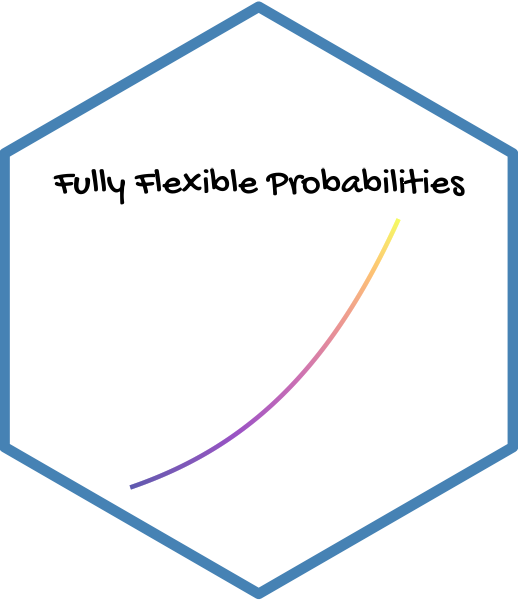
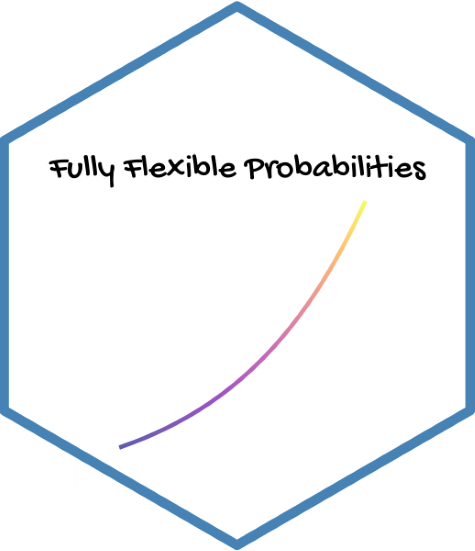
adjusting pkg for cran submission

diff --git a/docs/index.html b/docs/index.html
@@ -70,7 +70,7 @@
       </header><div class="row">
   <div class="contents col-md-9">
 
-<p><a href="https://reckziegel.github.io/FFP/" class="external-link"><img src="reference/figures/ffp_sticker.png" align="right" height="139"></a></p>
+<p><img src="reference/figures/ffp_sticker.png" align="right" width="147" height="170"></p>
 <div class="section level1">
 <div class="page-header"><h1 id="fully-flexible-probabilities">Fully Flexible Probabilities<a class="anchor" aria-label="anchor" href="#fully-flexible-probabilities"></a>
 </h1></div>
@@ -79,7 +79,7 @@
 <blockquote>
 <p>Functions for Scenario Analysis and Risk Management</p>
 </blockquote>
-<p>Oftentimes, the econometrician needs to stress-test the potential outcomes for a given set of risk-drivers. This process can be computationally costly when the entire set of scenarios needs to be repriced (bootstrapped, resampled, etc.).</p>
+<p>Oftentimes, the econometrician needs to stress-test the potential outcomes for a given set of risk-drivers. This process can be computationally costly when the entire set of scenarios needs to be repriced.</p>
 <p>To overcome this difficulty, the Fully Flexible Probabilities (FFP) approach offers an inexpensive way for scenario generation: it reprices the <em>probabilities</em> associated to each scenario, instead of the scenarios themselves. Once the new probabilities have been defined, the computations can be performed very quickly because the burden of scenario generation is left aside.</p>
 <div class="section level2">
 <h2 id="installation">Installation<a class="anchor" aria-label="anchor" href="#installation"></a>
@@ -100,7 +100,7 @@
 <li>
 <code><a href="reference/exp_decay.html">exp_decay()</a></code>: accounts for the time-changing nature of volatility by giving more weight to recent observations;</li>
 <li>
-<code><a href="reference/crisp.html">crisp()</a></code>: selects scenarios where a certain logical macroeconomic statement is satisfied;</li>
+<code><a href="reference/crisp.html">crisp()</a></code>: selects scenarios where a logical statement is satisfied;</li>
 <li>
 <code><a href="reference/kernel_normal.html">kernel_normal()</a></code>: generalizes the <code>crisp</code> condition by wrapping scenarios over a normal kernel;</li>
 <li>
@@ -191,9 +191,10 @@
 <li><a href="https://lifecycle.r-lib.org/articles/stages.html#experimental" class="external-link"><img src="https://img.shields.io/badge/lifecycle-experimental-orange.svg" alt="Lifecycle: experimental"></a></li>
 <li><a href="https://CRAN.R-project.org/package=ffp" class="external-link"><img src="https://www.r-pkg.org/badges/version/ffp" alt="CRAN status"></a></li>
 <li><a href="https://github.com/Reckziegel/FFP/actions" class="external-link"><img src="https://github.com/Reckziegel/FFP/workflows/R-CMD-check/badge.svg" alt="R-CMD-check"></a></li>
-<li><a href="https://travis-ci.com/Reckziegel/FFP" class="external-link"><img src="https://travis-ci.com/Reckziegel/FFP.svg?branch=main" alt="Travis build status"></a></li>
 <li><a href="https://ci.appveyor.com/project/Reckziegel/FFP" class="external-link"><img src="https://ci.appveyor.com/api/projects/status/github/Reckziegel/FFP?branch=main&amp;svg=true" alt="AppVeyor build status"></a></li>
-<li><a href="https://codecov.io/gh/Reckziegel/FFP?branch=main" class="external-link"><img src="https://codecov.io/gh/Reckziegel/FFP/branch/main/graph/badge.svg" alt="Codecov test coverage"></a></li>
+<li><a href="https://app.codecov.io/gh/Reckziegel/FFP?branch=main" class="external-link"><img src="https://codecov.io/gh/Reckziegel/FFP/branch/main/graph/badge.svg" alt="Codecov test coverage"></a></li>
+<li><a href="https://r-pkg.org/pkg/ffp" class="external-link"><img src="https://cranlogs.r-pkg.org/badges/last-month/ffp?color=blue" alt="CRAN RStudio mirror downloads"></a></li>
+<li><a href="https://r-pkg.org/pkg/ffp" class="external-link"><img src="https://cranlogs.r-pkg.org/badges/grand-total/ffp?color=blue" alt="CRAN RStudio mirror downloads"></a></li>
 </ul>
 </div>
 

diff --git a/docs/news/index.html b/docs/news/index.html
@@ -51,6 +51,24 @@
     </div>
 
     <div class="section level2">
+<h2 class="page-header" data-toc-text="0.2.0" id="ffp-020">ffp 0.2.0<a class="anchor" aria-label="anchor" href="#ffp-020"></a></h2>
+<div class="section level3">
+<h3 id="new-features-0-2-0">New Features<a class="anchor" aria-label="anchor" href="#new-features-0-2-0"></a></h3>
+<ul><li>A new class was added to help the user to input views on the market for portfolio construction and simulation purposes. See the <code>view_*()</code> family of functions;</li>
+<li>
+<code><a href="../reference/entropy_pooling.html">entropy_pooling()</a></code> is now exported and can be used with three different solvers (<code>nlminb</code>, <code>solnl</code>, and <code>nloptr</code>);</li>
+<li>
+<code><a href="../reference/bind_views.html">bind_views()</a></code> allows the user to “glue” multiple views into the same object;</li>
+<li>
+<code><a href="../reference/ffp_moments.html">ffp_moments()</a></code> computes the location and dispersion parameters under flexible probabilities.</li>
+</ul></div>
+<div class="section level3">
+<h3 id="minor-improvements-and-fixes-0-2-0">Minor improvements and fixes<a class="anchor" aria-label="anchor" href="#minor-improvements-and-fixes-0-2-0"></a></h3>
+<ul><li>
+<code><a href="../reference/bind_probs.html">bind_probs()</a></code> now returns the user call in the third column instead the old arbitrary <code>key</code> column (<a href="https://github.com/Reckziegel/FFP/issues/13" class="external-link">#13</a>);</li>
+</ul></div>
+</div>
+    <div class="section level2">
 <h2 class="page-header" data-toc-text="development version" id="ffp-development-version">ffp (development version)<a class="anchor" aria-label="anchor" href="#ffp-development-version"></a></h2>
 </div>
     <div class="section level2">

diff --git a/README.md b/README.md
@@ -1,7 +1,7 @@
 
 <!-- README.md is generated from README.Rmd. Please edit that file -->
 
-<a href='https://reckziegel.github.io/FFP/'><img src='man/figures/ffp_sticker.png' align="right" height="100" /></a>
+<img src='man/figures/ffp_sticker.png' align="right" width="147" height="170" />
 
 # Fully Flexible Probabilities
 
@@ -12,12 +12,15 @@ experimental](https://img.shields.io/badge/lifecycle-experimental-orange.svg)](h
 [![CRAN
 status](https://www.r-pkg.org/badges/version/ffp)](https://CRAN.R-project.org/package=ffp)
 [![R-CMD-check](https://github.com/Reckziegel/FFP/workflows/R-CMD-check/badge.svg)](https://github.com/Reckziegel/FFP/actions)
-[![Travis build
-status](https://travis-ci.com/Reckziegel/FFP.svg?branch=main)](https://travis-ci.com/Reckziegel/FFP)
+<!-- [![Travis build status](https://www.travis-ci.com/Reckziegel/FFP.svg?branch=main)](https://www.travis-ci.com/Reckziegel/FFP) -->
 [![AppVeyor build
 status](https://ci.appveyor.com/api/projects/status/github/Reckziegel/FFP?branch=main&svg=true)](https://ci.appveyor.com/project/Reckziegel/FFP)
 [![Codecov test
-coverage](https://codecov.io/gh/Reckziegel/FFP/branch/main/graph/badge.svg)](https://codecov.io/gh/Reckziegel/FFP?branch=main)
+coverage](https://codecov.io/gh/Reckziegel/FFP/branch/main/graph/badge.svg)](https://app.codecov.io/gh/Reckziegel/FFP?branch=main)
+[![CRAN RStudio mirror
+downloads](https://cranlogs.r-pkg.org/badges/last-month/ffp?color=blue)](https://r-pkg.org/pkg/ffp)
+[![CRAN RStudio mirror
+downloads](https://cranlogs.r-pkg.org/badges/grand-total/ffp?color=blue)](https://r-pkg.org/pkg/ffp)
 <!-- badges: end -->
 
 > Functions for Scenario Analysis and Risk Management
@@ -25,7 +28,7 @@ coverage](https://codecov.io/gh/Reckziegel/FFP/branch/main/graph/badge.svg)](htt
 Oftentimes, the econometrician needs to stress-test the potential
 outcomes for a given set of risk-drivers. This process can be
 computationally costly when the entire set of scenarios needs to be
-repriced (bootstrapped, resampled, etc.).
+repriced.
 
 To overcome this difficulty, the Fully Flexible Probabilities (FFP)
 approach offers an inexpensive way for scenario generation: it reprices
@@ -56,8 +59,7 @@ from the historical scenarios:
 
 -   `exp_decay()`: accounts for the time-changing nature of volatility
     by giving more weight to recent observations;
--   `crisp()`: selects scenarios where a certain logical macroeconomic
-    statement is satisfied;
+-   `crisp()`: selects scenarios where a logical statement is satisfied;
 -   `kernel_normal()`: generalizes the `crisp` condition by wrapping
     scenarios over a normal kernel;
 -   `kernel_entropy()`: uses entropy-polling to satisfy a conditioning

diff --git a/NEWS.md b/NEWS.md
@@ -1,3 +1,16 @@
+# ffp 0.2.0
+
+## New Features
+
+* A new class (`ffp_views`) was added to help the user to input views on the market for portfolio construction and simulation purposes. See the `view_*()` family of functions;
+* `entropy_pooling()` is now exported and can be used with three different solvers (`nlminb`, `solnl`, and `nloptr`);
+* `bind_views()` allows the user to "glue" multiple views into the same object;
+* `ffp_moments()` computes the location and dispersion parameters under flexible probabilities. 
+
+## Minor improvements and fixes
+
+* `bind_probs()` now returns the user call in the third column instead the old arbitrary `key` column (#13);
+
 # ffp (development version)
 
 # ffp 0.1.0

diff --git a/cran-comments.md b/cran-comments.md
@@ -7,6 +7,6 @@
 
 0 errors | 0 warnings | 1 note
 
-* This is a new release.
+* This is an upgrade (version 0.1.0 to 0.2.0).
 
-* Used `\donttest{}` in `double_decay()` examples because it takes more than 5 secs to run.
+* Used `\donttest{}` in `double_decay()` and `view_on_copula()` examples because they take more than 5 secs to run.
